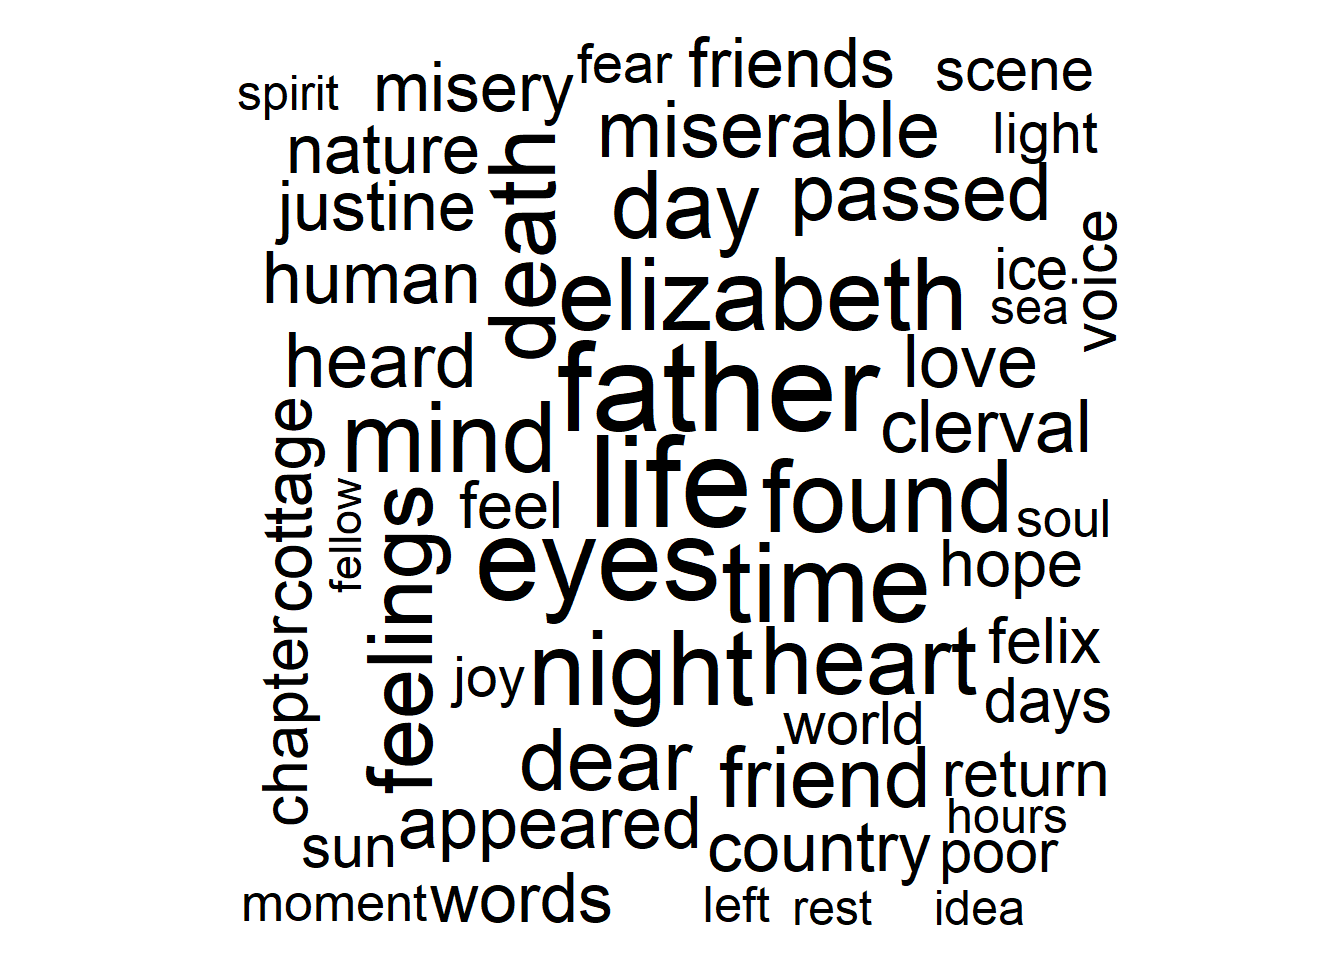
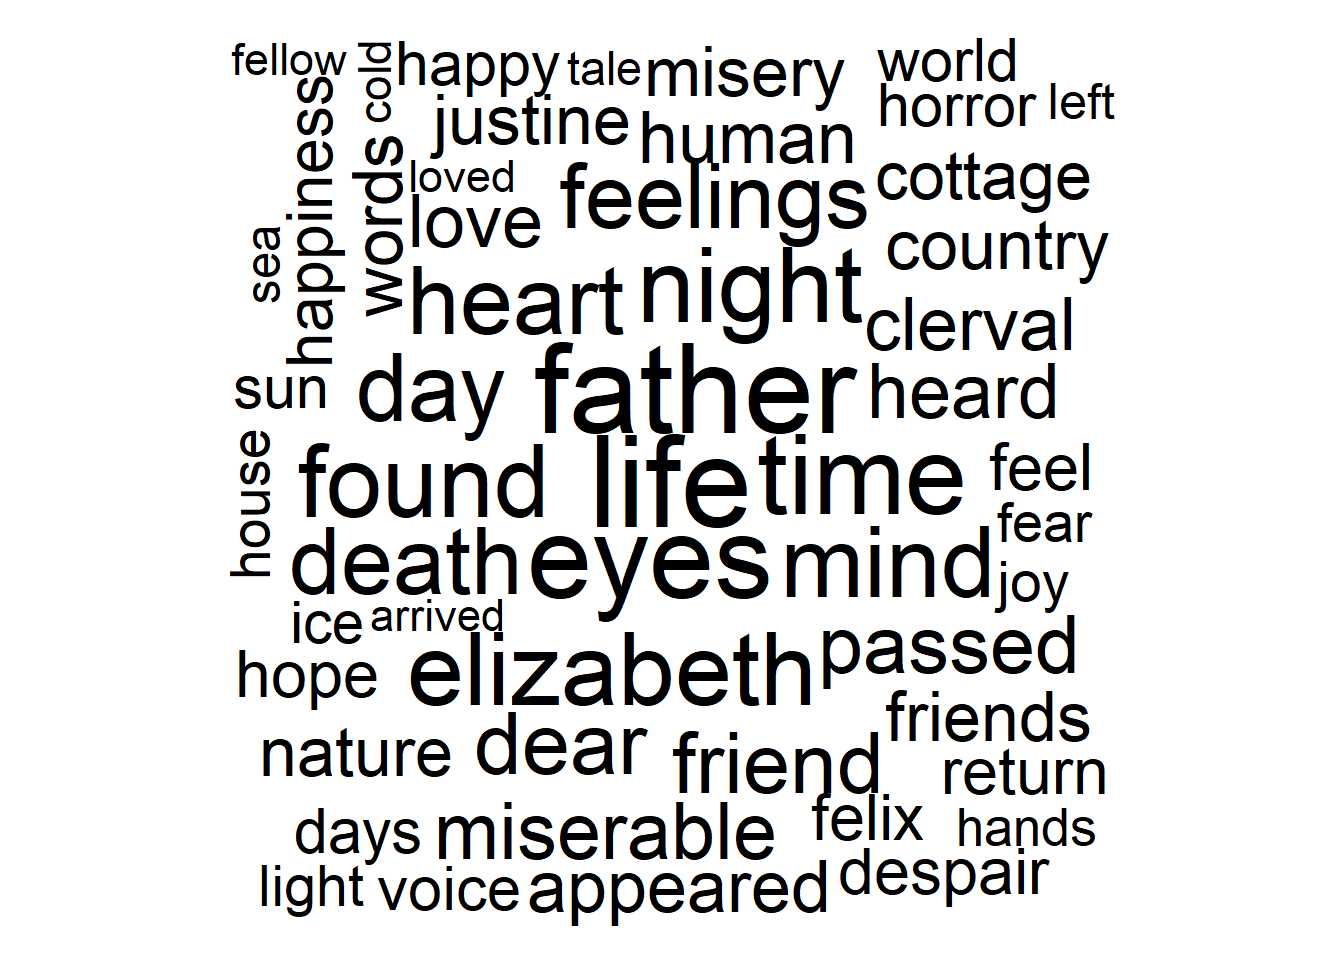
render webpage with first 5 activities

Changed region(s): [[0.1562, 0.0312, 0.8438, 0.9688]]

diff --git a/docs/05_text_analysis.html b/docs/05_text_analysis.html
@@ -312,7 +312,7 @@ pre > code.sourceCode > span > a:first-child::before { text-decoration: underlin
 </header>
 
 
-<p>You can download this .qmd file from <a href="https://github.com/joeroith/264_spring_2025/blob/main/13_text_analysis.qmd">here</a>. Just hit the Download Raw File button.</p>
+<p>You can download this .qmd file from <a href="https://github.com/proback/264_fall_2025/blob/main/05_text_analysis.qmd">here</a>. Just hit the Download Raw File button.</p>
 <p>We will build on techniques you learned in SDS 164 using parts of <a href="https://www.tidytextmining.com/">Text Mining with R</a> by Silge and Robinson.</p>
 <section id="text-analysis-of-books-from-project-gutenberg" class="level2">
 <h2 class="anchored" data-anchor-id="text-analysis-of-books-from-project-gutenberg">Text analysis of books from Project Gutenberg</h2>
@@ -346,7 +346,7 @@ Attaching package: 'RCurl'</code></pre>
     complete</code></pre>
 </div>
 <div class="sourceCode cell-code" id="cb5"><pre class="sourceCode r code-with-copy"><code class="sourceCode r"><span id="cb5-1"><a href="#cb5-1" aria-hidden="true" tabindex="-1"></a>three_works <span class="ot">&lt;-</span> <span class="fu">read_csv</span>(</span>
-<span id="cb5-2"><a href="#cb5-2" aria-hidden="true" tabindex="-1"></a>  <span class="at">file =</span> <span class="fu">getURL</span>(<span class="st">"https://raw.githubusercontent.com/joeroith/264_spring_2025/refs/heads/main/Data/three_works.csv"</span>, <span class="at">.encoding =</span> <span class="st">"UTF-8"</span>))</span></code><button title="Copy to Clipboard" class="code-copy-button"><i class="bi"></i></button></pre></div>
+<span id="cb5-2"><a href="#cb5-2" aria-hidden="true" tabindex="-1"></a>  <span class="at">file =</span> <span class="fu">getURL</span>(<span class="st">"https://raw.githubusercontent.com/proback/264_fall_2025/refs/heads/main/Data/three_works.csv"</span>, <span class="at">.encoding =</span> <span class="st">"UTF-8"</span>))</span></code><button title="Copy to Clipboard" class="code-copy-button"><i class="bi"></i></button></pre></div>
 <div class="cell-output cell-output-stderr">
 <pre><code>Rows: 25399 Columns: 3</code></pre>
 </div>
@@ -819,7 +819,7 @@ dbl (1): gutenberg_id
 </figure>
 </div>
 </div>
-<div class="sourceCode cell-code" id="cb49"><pre class="sourceCode r code-with-copy"><code class="sourceCode r"><span id="cb49-1"><a href="#cb49-1" aria-hidden="true" tabindex="-1"></a><span class="co"># Some alternative options (see Solveig's R tip of the day for more!)</span></span>
+<div class="sourceCode cell-code" id="cb49"><pre class="sourceCode r code-with-copy"><code class="sourceCode r"><span id="cb49-1"><a href="#cb49-1" aria-hidden="true" tabindex="-1"></a><span class="co"># Some alternative options</span></span>
 <span id="cb49-2"><a href="#cb49-2" aria-hidden="true" tabindex="-1"></a><span class="fu">wordcloud</span>(</span>
 <span id="cb49-3"><a href="#cb49-3" aria-hidden="true" tabindex="-1"></a>  <span class="at">words =</span> words<span class="sc">$</span>word, </span>
 <span id="cb49-4"><a href="#cb49-4" aria-hidden="true" tabindex="-1"></a>  <span class="at">freq =</span> words<span class="sc">$</span>n, </span>
@@ -847,8 +847,8 @@ dbl (1): gutenberg_id
 <span id="cb50-10"><a href="#cb50-10" aria-hidden="true" tabindex="-1"></a>  <span class="at">minSize =</span> <span class="dv">10</span></span>
 <span id="cb50-11"><a href="#cb50-11" aria-hidden="true" tabindex="-1"></a>)</span></code><button title="Copy to Clipboard" class="code-copy-button"><i class="bi"></i></button></pre></div>
 <div class="cell-output-display">
-<div class="wordcloud2 html-widget html-fill-item" id="htmlwidget-4c0a5cc659b3455bb391" style="width:100%;height:464px;"></div>
-<script type="application/json" data-for="htmlwidget-4c0a5cc659b3455bb391">{"x":{"word":["life","father","eyes","time","night","elizabeth","found","mind","heart","day","death","feelings","dear","friend","passed","miserable","heard","clerval","love","human","appeared","country","friends","justine","misery","words","nature","cottage","feel","hope","despair","felix","happiness","return","chapter","days","happy","voice","horror","poor","sun","world","scene","ice","creature","joy","light","affection","fear","house","countenance","months","power","entered","hands","soul","moment","morning","mountains","pleasure","earth","geneva","journey","possessed","gentle","left","child","continued","discovered","hours","sea","spirit","fiend","idea","knowledge","rest","delight","letter","lost","peace"],"freq":[115,112,104,98,90,88,87,85,81,80,79,76,72,71,67,65,62,59,59,58,57,54,54,54,54,54,53,51,50,50,49,49,49,49,48,47,46,46,45,45,45,45,44,43,42,42,42,40,40,40,39,39,39,38,38,38,37,37,37,37,36,36,36,36,35,35,34,34,34,34,34,34,33,33,33,33,32,32,32,32],"fontFamily":"Segoe UI","fontWeight":"bold","color":"random-dark","minSize":10,"weightFactor":0.391304347826087,"backgroundColor":"white","gridSize":0,"minRotation":-0.7853981633974483,"maxRotation":0.7853981633974483,"shuffle":true,"rotateRatio":0.4,"shape":"circle","ellipticity":0.65,"figBase64":null,"hover":null},"evals":[],"jsHooks":{"render":[{"code":"function(el,x){\n                        console.log(123);\n                        if(!iii){\n                          window.location.reload();\n                          iii = False;\n\n                        }\n  }","data":null}]}}</script>
+<div class="wordcloud2 html-widget html-fill-item" id="htmlwidget-911862271f39fcd7f670" style="width:100%;height:464px;"></div>
+<script type="application/json" data-for="htmlwidget-911862271f39fcd7f670">{"x":{"word":["life","father","eyes","time","night","elizabeth","found","mind","heart","day","death","feelings","dear","friend","passed","miserable","heard","clerval","love","human","appeared","country","friends","justine","misery","words","nature","cottage","feel","hope","despair","felix","happiness","return","chapter","days","happy","voice","horror","poor","sun","world","scene","ice","creature","joy","light","affection","fear","house","countenance","months","power","entered","hands","soul","moment","morning","mountains","pleasure","earth","geneva","journey","possessed","gentle","left","child","continued","discovered","hours","sea","spirit","fiend","idea","knowledge","rest","delight","letter","lost","peace"],"freq":[115,112,104,98,90,88,87,85,81,80,79,76,72,71,67,65,62,59,59,58,57,54,54,54,54,54,53,51,50,50,49,49,49,49,48,47,46,46,45,45,45,45,44,43,42,42,42,40,40,40,39,39,39,38,38,38,37,37,37,37,36,36,36,36,35,35,34,34,34,34,34,34,33,33,33,33,32,32,32,32],"fontFamily":"Segoe UI","fontWeight":"bold","color":"random-dark","minSize":10,"weightFactor":0.391304347826087,"backgroundColor":"white","gridSize":0,"minRotation":-0.7853981633974483,"maxRotation":0.7853981633974483,"shuffle":true,"rotateRatio":0.4,"shape":"circle","ellipticity":0.65,"figBase64":null,"hover":null},"evals":[],"jsHooks":{"render":[{"code":"function(el,x){\n                        console.log(123);\n                        if(!iii){\n                          window.location.reload();\n                          iii = False;\n\n                        }\n  }","data":null}]}}</script>
 </div>
 <div class="sourceCode cell-code" id="cb51"><pre class="sourceCode r code-with-copy"><code class="sourceCode r"><span id="cb51-1"><a href="#cb51-1" aria-hidden="true" tabindex="-1"></a><span class="co"># A couple of helpful links for customizing wordclouds:</span></span>
 <span id="cb51-2"><a href="#cb51-2" aria-hidden="true" tabindex="-1"></a><span class="co">#   https://www.youtube.com/watch?v=0cToDzeDLRI</span></span>
@@ -1306,9 +1306,9 @@ dbl (1): gutenberg_id
 <span id="cb85-7"><a href="#cb85-7" aria-hidden="true" tabindex="-1"></a></span>
 <span id="cb85-8"><a href="#cb85-8" aria-hidden="true" tabindex="-1"></a>bigram_graph</span></code><button title="Copy to Clipboard" class="code-copy-button"><i class="bi"></i></button></pre></div>
 <div class="cell-output cell-output-stdout">
-<pre><code>IGRAPH f7e450c DN-- 37 27 -- 
+<pre><code>IGRAPH d713a9f DN-- 37 27 -- 
 + attr: name (v/c), n (e/n)
-+ edges from f7e450c (vertex names):
++ edges from d713a9f (vertex names):
  [1] van     -&gt;helsing    madam   -&gt;mina       lord    -&gt;godalming 
  [4] dr      -&gt;van        dr      -&gt;seward     friend  -&gt;john      
  [7] seward's-&gt;diary      poor    -&gt;dear       harker's-&gt;journal   

diff --git a/docs/01_review164.html b/docs/01_review164.html
@@ -280,23 +280,23 @@ pre > code.sourceCode > span > a:first-child::before { text-decoration: underlin
 </header>
 
 
-<p>You can download this .qmd file from <a href="https://github.com/joeroith/264_spring_2025/blob/main/01_review164.qmd">here</a>. Just hit the Download Raw File button.</p>
+<p>You can download this .qmd file from <a href="https://github.com/proback/264_fall_2025/blob/main/01_review164.qmd">here</a>. Just hit the Download Raw File button.</p>
 <section id="determinants-of-covid-vaccination-rates" class="level3">
 <h3 class="anchored" data-anchor-id="determinants-of-covid-vaccination-rates">Determinants of COVID vaccination rates</h3>
 <p>First, a little detour to describe several alternatives for reading in data:</p>
-<p>If you navigate to <a href="https://github.com/joeroith">my Github account</a>, and find the <code>264_spring_2025</code> repo, there is a Data folder inside. You can then click on <code>vacc_Mar21.csv</code> to see the data we want to download. <a href="https://github.com/joeroith/264_spring_2025/blob/main/Data/vaccinations_2021.csv">This link</a> should also get you there, but it’s good to be able to navigate there yourself.</p>
+<p>If you navigate to <a href="https://github.com/proback">my Github account</a>, and find the <code>264_fall_2025</code> repo, there is a Data folder inside. You can then click on <code>vacc_Mar21.csv</code> to see the data we want to download. <a href="https://github.com/proback/264_fall_2025/blob/main/Data/vaccinations_2021.csv">This link</a> should also get you there, but it’s good to be able to navigate there yourself.</p>
 <div class="cell">
 <div class="sourceCode cell-code" id="annotated-cell-1"><pre class="sourceCode r code-annotation-code code-with-copy code-annotated"><code class="sourceCode r"><span id="annotated-cell-1-1"><a href="#annotated-cell-1-1" aria-hidden="true" tabindex="-1"></a><span class="co"># Approach 1</span></span>
 <a class="code-annotation-anchor" data-target-cell="annotated-cell-1" data-target-annotation="1" onclick="event.preventDefault();">1</a><span id="annotated-cell-1-2" class="code-annotation-target"><a href="#annotated-cell-1-2" aria-hidden="true" tabindex="-1"></a>vaccine_data <span class="ot">&lt;-</span> <span class="fu">read_csv</span>(<span class="st">"Data/vaccinations_2021.csv"</span>)</span>
 <span id="annotated-cell-1-3"><a href="#annotated-cell-1-3" aria-hidden="true" tabindex="-1"></a></span>
 <span id="annotated-cell-1-4"><a href="#annotated-cell-1-4" aria-hidden="true" tabindex="-1"></a><span class="co"># Approach 2</span></span>
-<a class="code-annotation-anchor" data-target-cell="annotated-cell-1" data-target-annotation="2" onclick="event.preventDefault();">2</a><span id="annotated-cell-1-5" class="code-annotation-target"><a href="#annotated-cell-1-5" aria-hidden="true" tabindex="-1"></a>vaccine_data <span class="ot">&lt;-</span> <span class="fu">read_csv</span>(<span class="st">"~/264_spring_2025/Data/vaccinations_2021.csv"</span>)</span>
+<a class="code-annotation-anchor" data-target-cell="annotated-cell-1" data-target-annotation="2" onclick="event.preventDefault();">2</a><span id="annotated-cell-1-5" class="code-annotation-target"><a href="#annotated-cell-1-5" aria-hidden="true" tabindex="-1"></a>vaccine_data <span class="ot">&lt;-</span> <span class="fu">read_csv</span>(<span class="st">"~/264_fall_2025/Data/vaccinations_2021.csv"</span>)</span>
 <span id="annotated-cell-1-6"><a href="#annotated-cell-1-6" aria-hidden="true" tabindex="-1"></a></span>
 <span id="annotated-cell-1-7"><a href="#annotated-cell-1-7" aria-hidden="true" tabindex="-1"></a><span class="co"># Approach 3</span></span>
-<a class="code-annotation-anchor" data-target-cell="annotated-cell-1" data-target-annotation="3" onclick="event.preventDefault();">3</a><span id="annotated-cell-1-8" class="code-annotation-target"><a href="#annotated-cell-1-8" aria-hidden="true" tabindex="-1"></a>vaccine_data <span class="ot">&lt;-</span> <span class="fu">read_csv</span>(<span class="st">"https://joeroith.github.io/264_spring_2025/Data/vaccinations_2021.csv"</span>)</span>
+<a class="code-annotation-anchor" data-target-cell="annotated-cell-1" data-target-annotation="3" onclick="event.preventDefault();">3</a><span id="annotated-cell-1-8" class="code-annotation-target"><a href="#annotated-cell-1-8" aria-hidden="true" tabindex="-1"></a>vaccine_data <span class="ot">&lt;-</span> <span class="fu">read_csv</span>(<span class="st">"https://proback.github.io/264_fall_2025/Data/vaccinations_2021.csv"</span>)</span>
 <span id="annotated-cell-1-9"><a href="#annotated-cell-1-9" aria-hidden="true" tabindex="-1"></a></span>
 <span id="annotated-cell-1-10"><a href="#annotated-cell-1-10" aria-hidden="true" tabindex="-1"></a><span class="co"># Approach 4</span></span>
-<a class="code-annotation-anchor" data-target-cell="annotated-cell-1" data-target-annotation="4" onclick="event.preventDefault();">4</a><span id="annotated-cell-1-11" class="code-annotation-target"><a href="#annotated-cell-1-11" aria-hidden="true" tabindex="-1"></a>vaccine_data <span class="ot">&lt;-</span> <span class="fu">read_csv</span>(<span class="st">"https://raw.githubusercontent.com/joeroith/264_spring_2025/refs/heads/main/Data/vaccinations_2021.csv"</span>)</span><div class="code-annotation-gutter-bg"></div><div class="code-annotation-gutter"></div></code><button title="Copy to Clipboard" class="code-copy-button"><i class="bi"></i></button></pre></div>
+<a class="code-annotation-anchor" data-target-cell="annotated-cell-1" data-target-annotation="4" onclick="event.preventDefault();">4</a><span id="annotated-cell-1-11" class="code-annotation-target"><a href="#annotated-cell-1-11" aria-hidden="true" tabindex="-1"></a>vaccine_data <span class="ot">&lt;-</span> <span class="fu">read_csv</span>(<span class="st">"https://raw.githubusercontent.com/proback/264_fall_2025/refs/heads/main/Data/vaccinations_2021.csv"</span>)</span><div class="code-annotation-gutter-bg"></div><div class="code-annotation-gutter"></div></code><button title="Copy to Clipboard" class="code-copy-button"><i class="bi"></i></button></pre></div>
 <div class="cell-annotation">
 <dl class="code-annotation-container-grid">
 <dt data-target-cell="annotated-cell-1" data-target-annotation="1">1</dt>

diff --git a/docs/03_strings_part2.html b/docs/03_strings_part2.html
@@ -299,7 +299,7 @@ pre > code.sourceCode > span > a:first-child::before { text-decoration: underlin
 </header>
 
 
-<p>You can download this .qmd file from <a href="https://github.com/joeroith/264_spring_2025/blob/main/11_strings_part2.qmd">here</a>. Just hit the Download Raw File button.</p>
+<p>You can download this .qmd file from <a href="https://github.com/proback/264_fall_2025/blob/main/03_strings_part2.qmd">here</a>. Just hit the Download Raw File button.</p>
 <p>This uses parts of R4DS Ch 14: Strings and Ch 15: Regular Expressions (both the first and second editions).</p>
 <section id="manipulating-strings" class="level2">
 <h2 class="anchored" data-anchor-id="manipulating-strings">Manipulating strings</h2>
@@ -311,13 +311,13 @@ pre > code.sourceCode > span > a:first-child::before { text-decoration: underlin
 <li>str_to_lower()</li>
 <li>str_to_upper()</li>
 <li>str_to_title()</li>
-<li>str_replace() <em>not in 10_strings examples</em></li>
+<li>str_replace() <em>not in 02_strings examples</em></li>
 </ul>
 <div class="cell">
 <div class="sourceCode cell-code" id="cb1"><pre class="sourceCode r code-with-copy"><code class="sourceCode r"><span id="cb1-1"><a href="#cb1-1" aria-hidden="true" tabindex="-1"></a><span class="fu">library</span>(tidyverse)</span>
 <span id="cb1-2"><a href="#cb1-2" aria-hidden="true" tabindex="-1"></a></span>
 <span id="cb1-3"><a href="#cb1-3" aria-hidden="true" tabindex="-1"></a><span class="co">#spotify &lt;- read_csv("Data/spotify.csv") </span></span>
-<span id="cb1-4"><a href="#cb1-4" aria-hidden="true" tabindex="-1"></a>spotify <span class="ot">&lt;-</span> <span class="fu">read_csv</span>(<span class="st">"https://joeroith.github.io/264_spring_2025/Data/spotify.csv"</span>)</span>
+<span id="cb1-4"><a href="#cb1-4" aria-hidden="true" tabindex="-1"></a>spotify <span class="ot">&lt;-</span> <span class="fu">read_csv</span>(<span class="st">"https://proback.github.io/264_fall_2025/Data/spotify.csv"</span>)</span>
 <span id="cb1-5"><a href="#cb1-5" aria-hidden="true" tabindex="-1"></a></span>
 <span id="cb1-6"><a href="#cb1-6" aria-hidden="true" tabindex="-1"></a>spot_smaller <span class="ot">&lt;-</span> spotify <span class="sc">|&gt;</span></span>
 <span id="cb1-7"><a href="#cb1-7" aria-hidden="true" tabindex="-1"></a>  <span class="fu">select</span>(</span>
@@ -422,8 +422,8 @@ pre > code.sourceCode > span > a:first-child::before { text-decoration: underlin
 </div>
 <div class="sourceCode cell-code" id="cb15"><pre class="sourceCode r code-with-copy"><code class="sourceCode r"><span id="cb15-1"><a href="#cb15-1" aria-hidden="true" tabindex="-1"></a><span class="fu">str_view</span>(spot_smaller<span class="sc">$</span>subgenre, <span class="st">"pop"</span>, <span class="at">html =</span> <span class="cn">TRUE</span>)</span></code><button title="Copy to Clipboard" class="code-copy-button"><i class="bi"></i></button></pre></div>
 <div class="cell-output-display">
-<div class="str_view html-widget html-fill-item" id="htmlwidget-1c26a874933f50351f8e" style="width:960px;height:100%;"></div>
-<script type="application/json" data-for="htmlwidget-1c26a874933f50351f8e">{"x":{"html":"<ul>\n  <li><pre>indie <span class='match'>pop<\/span>timism<\/pre><\/li>\n  <li><pre>post-teen <span class='match'>pop<\/span><\/pre><\/li>\n  <li><pre>hip <span class='match'>pop<\/span><\/pre><\/li>\n  <li><pre>hip <span class='match'>pop<\/span><\/pre><\/li>\n  <li><pre>latin <span class='match'>pop<\/span><\/pre><\/li>\n<\/ul>"},"evals":[],"jsHooks":[]}</script>
+<div class="str_view html-widget html-fill-item" id="htmlwidget-8f53cdf145151622356d" style="width:960px;height:100%;"></div>
+<script type="application/json" data-for="htmlwidget-8f53cdf145151622356d">{"x":{"html":"<ul>\n  <li><pre>indie <span class='match'>pop<\/span>timism<\/pre><\/li>\n  <li><pre>post-teen <span class='match'>pop<\/span><\/pre><\/li>\n  <li><pre>hip <span class='match'>pop<\/span><\/pre><\/li>\n  <li><pre>hip <span class='match'>pop<\/span><\/pre><\/li>\n  <li><pre>latin <span class='match'>pop<\/span><\/pre><\/li>\n<\/ul>"},"evals":[],"jsHooks":[]}</script>
 </div>
 <div class="sourceCode cell-code" id="cb16"><pre class="sourceCode r code-with-copy"><code class="sourceCode r"><span id="cb16-1"><a href="#cb16-1" aria-hidden="true" tabindex="-1"></a><span class="fu">str_subset</span>(spot_smaller<span class="sc">$</span>subgenre, <span class="st">"pop"</span>)</span></code><button title="Copy to Clipboard" class="code-copy-button"><i class="bi"></i></button></pre></div>
 <div class="cell-output cell-output-stdout">

diff --git a/docs/02_strings_part1.html b/docs/02_strings_part1.html
@@ -304,12 +304,12 @@ pre > code.sourceCode > span > a:first-child::before { text-decoration: underlin
 </header>
 
 
-<p>You can download this .qmd file from <a href="https://github.com/joeroith/264_spring_2025/blob/main/10_strings_part1.qmd">here</a>. Just hit the Download Raw File button.</p>
+<p>You can download this .qmd file from <a href="https://github.com/proback/264_fall_2025/blob/main/02_strings_part1.qmd">here</a>. Just hit the Download Raw File button.</p>
 <p>This uses parts of R4DS Ch 14: Strings and Ch 15: Regular Expressions (both the first and second editions).</p>
 <div class="cell">
 <div class="sourceCode cell-code" id="cb1"><pre class="sourceCode r code-with-copy"><code class="sourceCode r"><span id="cb1-1"><a href="#cb1-1" aria-hidden="true" tabindex="-1"></a><span class="fu">library</span>(tidyverse)</span>
 <span id="cb1-2"><a href="#cb1-2" aria-hidden="true" tabindex="-1"></a><span class="co">#spotify &lt;- read_csv("Data/spotify.csv") </span></span>
-<span id="cb1-3"><a href="#cb1-3" aria-hidden="true" tabindex="-1"></a>spotify <span class="ot">&lt;-</span> <span class="fu">read_csv</span>(<span class="st">"https://joeroith.github.io/264_spring_2025/Data/spotify.csv"</span>)</span>
+<span id="cb1-3"><a href="#cb1-3" aria-hidden="true" tabindex="-1"></a>spotify <span class="ot">&lt;-</span> <span class="fu">read_csv</span>(<span class="st">"https://proback.github.io/264_fall_2025/Data/spotify.csv"</span>)</span>
 <span id="cb1-4"><a href="#cb1-4" aria-hidden="true" tabindex="-1"></a></span>
 <span id="cb1-5"><a href="#cb1-5" aria-hidden="true" tabindex="-1"></a>spot_smaller <span class="ot">&lt;-</span> spotify <span class="sc">|&gt;</span></span>
 <span id="cb1-6"><a href="#cb1-6" aria-hidden="true" tabindex="-1"></a>  <span class="fu">select</span>(</span>
@@ -526,11 +526,11 @@ pre > code.sourceCode > span > a:first-child::before { text-decoration: underlin
 <div class="sourceCode cell-code" id="cb41"><pre class="sourceCode r code-with-copy"><code class="sourceCode r"><span id="cb41-1"><a href="#cb41-1" aria-hidden="true" tabindex="-1"></a>x <span class="ot">&lt;-</span> <span class="fu">runif</span>(<span class="dv">1</span>)</span>
 <span id="cb41-2"><a href="#cb41-2" aria-hidden="true" tabindex="-1"></a>x</span></code><button title="Copy to Clipboard" class="code-copy-button"><i class="bi"></i></button></pre></div>
 <div class="cell-output cell-output-stdout">
-<pre><code>[1] 0.6862471</code></pre>
+<pre><code>[1] 0.5056308</code></pre>
 </div>
 <div class="sourceCode cell-code" id="cb43"><pre class="sourceCode r code-with-copy"><code class="sourceCode r"><span id="cb43-1"><a href="#cb43-1" aria-hidden="true" tabindex="-1"></a><span class="fu">str_c</span>(<span class="st">"I can put other values, like"</span>, x, <span class="st">"in here!"</span>, <span class="at">sep =</span> <span class="st">" "</span>)</span></code><button title="Copy to Clipboard" class="code-copy-button"><i class="bi"></i></button></pre></div>
 <div class="cell-output cell-output-stdout">
-<pre><code>[1] "I can put other values, like 0.68624714249745 in here!"</code></pre>
+<pre><code>[1] "I can put other values, like 0.505630827276036 in here!"</code></pre>
 </div>
 <div class="sourceCode cell-code" id="cb45"><pre class="sourceCode r code-with-copy"><code class="sourceCode r"><span id="cb45-1"><a href="#cb45-1" aria-hidden="true" tabindex="-1"></a>spot_smaller</span></code><button title="Copy to Clipboard" class="code-copy-button"><i class="bi"></i></button></pre></div>
 <div class="cell-output cell-output-stdout">

diff --git a/docs/04_strings_part3.html b/docs/04_strings_part3.html
@@ -281,7 +281,7 @@ pre > code.sourceCode > span > a:first-child::before { text-decoration: underlin
 </header>
 
 
-<p>You can download this .qmd file from <a href="https://github.com/joeroith/264_spring_2025/blob/main/12_strings_part3.qmd">here</a>. Just hit the Download Raw File button.</p>
+<p>You can download this .qmd file from <a href="https://github.com/proback/264_fall_2025/blob/main/04_strings_part3.qmd">here</a>. Just hit the Download Raw File button.</p>
 <div class="cell">
 <div class="sourceCode cell-code" id="cb1"><pre class="sourceCode r code-with-copy"><code class="sourceCode r"><span id="cb1-1"><a href="#cb1-1" aria-hidden="true" tabindex="-1"></a><span class="fu">library</span>(tidyverse)</span>
 <span id="cb1-2"><a href="#cb1-2" aria-hidden="true" tabindex="-1"></a><span class="fu">library</span>(rvest)</span>
